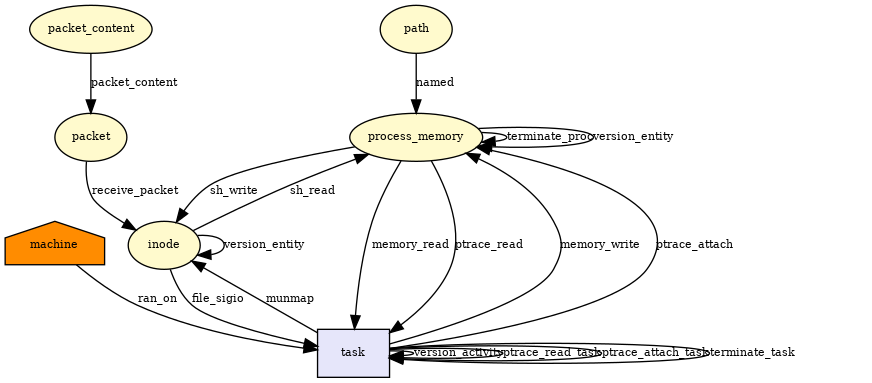
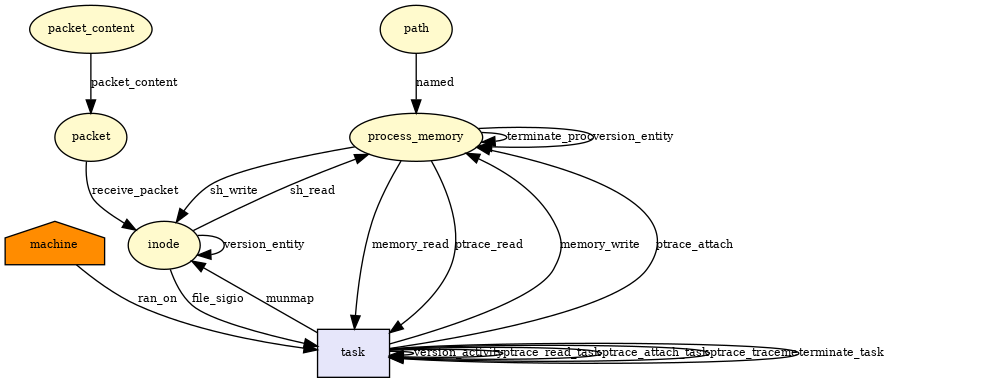
add support for ptrace_traceme

diff --git a/security/provenance/hooks.c b/security/provenance/hooks.c
@@ -173,19 +173,31 @@ static int provenance_ptrace_access_check(struct task_struct *child,
 		rc = informs(RL_PTRACE_READ_TASK, ctprov, tprov, NULL, mode);
 		if (rc < 0)
 			goto out;
-		rc = uses(RL_PTRACE_READ, ccprov, tprov, cprov, NULL, 0);
-		if (rc < 0)
-			goto out;
+		if (ccprov != cprov) { // if it is too sepearate processes
+			rc = uses(RL_PTRACE_READ, ccprov, tprov, cprov, NULL, 0);
+			if (rc < 0)
+				goto out;
+		}
 	}
 	if (mode & PTRACE_MODE_ATTACH) {
-		rc = generates(RL_PTRACE_ATTACH, cprov, tprov, ccprov, NULL, 0);
-		if (rc < 0)
-			goto out;
+		if (ccprov != cprov) { // if it is too sepearate processes
+			rc = generates(RL_PTRACE_ATTACH, cprov, tprov, ccprov, NULL, 0);
+			if (rc < 0)
+				goto out;
+		}
 		rc = informs(RL_PTRACE_ATTACH_TASK, tprov, ctprov, NULL, mode);
 	}
 
 out:
 	return rc;
+}
+
+static int provenance_ptrace_traceme(struct task_struct *parent)
+{
+	struct provenance *tprov = get_task_provenance(false);
+	struct provenance *ptprov = provenance_task(parent);
+
+	return informs(RL_PTRACE_TRACEME, tprov, ptprov, NULL, 0);
 }
 
 /*!
@@ -2476,6 +2488,7 @@ static struct security_hook_list provenance_hooks[] __lsm_ro_after_init = {
 	LSM_HOOK_INIT(task_getpgid,             provenance_task_getpgid),
 	LSM_HOOK_INIT(task_kill,                provenance_task_kill),
 	LSM_HOOK_INIT(ptrace_access_check,      provenance_ptrace_access_check),
+	LSM_HOOK_INIT(ptrace_traceme,                           provenance_ptrace_traceme),
 
 	/* inode related hooks */
 	LSM_HOOK_INIT(inode_alloc_security,     provenance_inode_alloc_security),

diff --git a/security/provenance/type.c b/security/provenance/type.c
@@ -113,6 +113,7 @@ static const char RL_STR_PTRACE_ATTACH[] = "ptrace_attach";                     
 static const char RL_STR_PTRACE_READ[] = "ptrace_read";                                                 // ptrace read from mem
 static const char RL_STR_PTRACE_ATTACH_TASK[] = "ptrace_attach_task";                                   // write info via ptrace effect on task
 static const char RL_STR_PTRACE_READ_TASK[] = "ptrace_read_task";                                       // read info via ptrace effect on task
+static const char RL_STR_PTRACE_TRACEME[] = "ptrace_traceme";                                           // track ptrace_traceme
 
 /* node string name */
 static const char ND_STR_UNKNOWN[] = "unknown";                                 // unkown node type should normally not appear
@@ -344,6 +345,8 @@ const char *relation_str(uint64_t type)
 		return RL_STR_PTRACE_ATTACH_TASK;
 	case RL_PTRACE_READ_TASK:
 		return RL_STR_PTRACE_READ_TASK;
+	case RL_PTRACE_TRACEME:
+		return RL_STR_PTRACE_TRACEME;
 	case RL_RAN_ON:
 		return RL_STR_RAN_ON;
 	default:
@@ -453,6 +456,7 @@ uint64_t relation_id(const char *str)
 	MATCH_AND_RETURN(str, RL_STR_PTRACE_READ, RL_PTRACE_READ);
 	MATCH_AND_RETURN(str, RL_STR_PTRACE_ATTACH_TASK, RL_PTRACE_ATTACH_TASK);
 	MATCH_AND_RETURN(str, RL_STR_PTRACE_READ_TASK, RL_PTRACE_READ_TASK);
+	MATCH_AND_RETURN(str, RL_STR_PTRACE_TRACEME, RL_PTRACE_TRACEME);
 	MATCH_AND_RETURN(str, RL_STR_RAN_ON, RL_RAN_ON);
 	return 0;
 }

diff --git a/scripts/instruction.rb b/scripts/instruction.rb
@@ -23,7 +23,7 @@ class Instruction
   def self.prov_to_type str
     if str == 'cprov' || str=='nprov' || str == 'old_prov' || str == 'pprov' || str == 'ccprov'
       return 'process_memory'
-    elsif str == 'tprov' || str == 'ntprov' || str == 'ctprov'
+    elsif str == 'tprov' || str == 'ntprov' || str == 'ctprov' || str == 'ptprov'
       return 'task'
     elsif str == 'iprov' || str == 'iprova' || str == 'iprovb' || str == 'niprov' || str == 'inprov' || str == 'outprov' || str == 'oprov'
       return 'inode'

diff --git a/include/uapi/linux/provenance_types.h b/include/uapi/linux/provenance_types.h
@@ -142,6 +142,7 @@
 #define RL_TERMINATE_TASK                       (RL_INFORMED  | (0x0000000000000001ULL << 2))
 #define RL_PTRACE_ATTACH_TASK                   (RL_INFORMED  | (0x0000000000000001ULL << 3))
 #define RL_PTRACE_READ_TASK                     (RL_INFORMED  | (0x0000000000000001ULL << 4))
+#define RL_PTRACE_TRACEME                       (RL_INFORMED  | (0x0000000000000001ULL << 5))
 /* no more than 51!!!! */
 
 /* INFLUENCED  SUBTYPES */

diff --git a/include/uapi/linux/provenance.h b/include/uapi/linux/provenance.h
@@ -30,7 +30,7 @@
 	"."xstr (CAMFLOW_VERSION_MINOR)					\
 	"."xstr (CAMFLOW_VERSION_PATCH)					\
 
-#define CAMFLOW_COMMIT "bcdf2fa6cf01f061ceb7962e130495230fcdd911"
+#define CAMFLOW_COMMIT "bb91f1f09f9af025b06a3c4e4a2a267f3860e602"
 
 #define PROVENANCE_HASH                 "sha256"
 

diff --git a/docs/HOOKS.md b/docs/HOOKS.md
@@ -15,6 +15,7 @@ task_setpgid| ![task_setpgid graph](./img/task_setpgid.png)|
 task_getpgid| ![task_getpgid graph](./img/task_getpgid.png)|
 task_kill| ![task_kill graph](./img/task_kill.png)|
 ptrace_access_check| ![ptrace_access_check graph](./img/ptrace_access_check.png)|
+ptrace_traceme| ![ptrace_traceme graph](./img/ptrace_traceme.png)|
 inode_alloc_security| ![inode_alloc_security graph](./img/inode_alloc_security.png)|
 inode_create| ![inode_create graph](./img/inode_create.png)|
 inode_free_security| ![inode_free_security graph](./img/inode_free_security.png)|

diff --git a/docs/RELATIONS.md b/docs/RELATIONS.md
@@ -104,3 +104,4 @@ RL_PTRACE_ATTACH|ptrace_attach|ptrace attach effect on memory|
 RL_PTRACE_READ|ptrace_read|ptrace read from mem|
 RL_PTRACE_ATTACH_TASK|ptrace_attach_task|write info via ptrace effect on task|
 RL_PTRACE_READ_TASK|ptrace_read_task|read info via ptrace effect on task|
+RL_PTRACE_TRACEME|ptrace_traceme|track ptrace_traceme|
